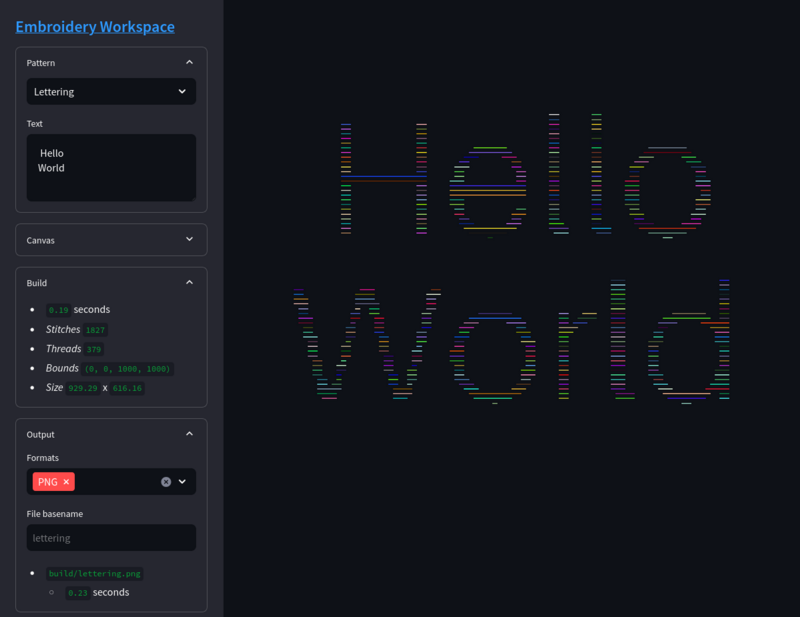
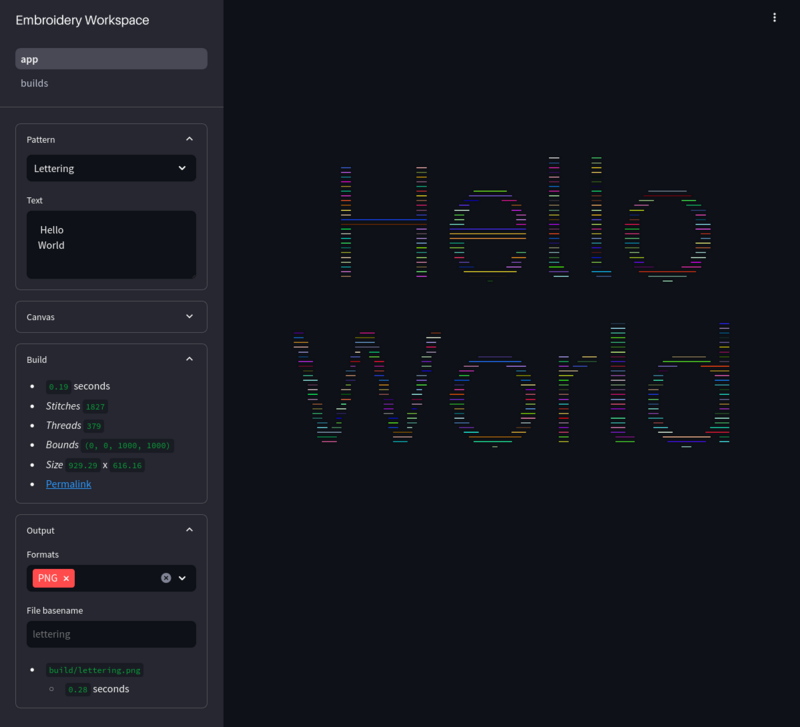
images.py: update screenshot

diff --git a/images.py b/images.py
@@ -9,13 +9,13 @@ from util import clean_basename
 with sync_playwright() as p:
     browser = p.firefox.launch()
 
-    screenshot_size = {"width": 1200, "height": 1000}
+    screenshot_size = {"width": 1200, "height": 1100}
     page = browser.new_page(color_scheme="dark", viewport=screenshot_size)
 
     page.goto(f"http://localhost:8501/?pattern=Lettering")
     page.get_by_test_id("completed").wait_for()
     page.screenshot(
-        path="screenshot.png", full_page=True, clip={"x": 1, "y": 75} | screenshot_size
+        path="screenshot.png", full_page=True, clip={"x": 1, "y": 10} | screenshot_size
     )
     subprocess.run(
         [f"mogrify -strip -thumbnail 800x -path /src/ /src/screenshot.png"],
